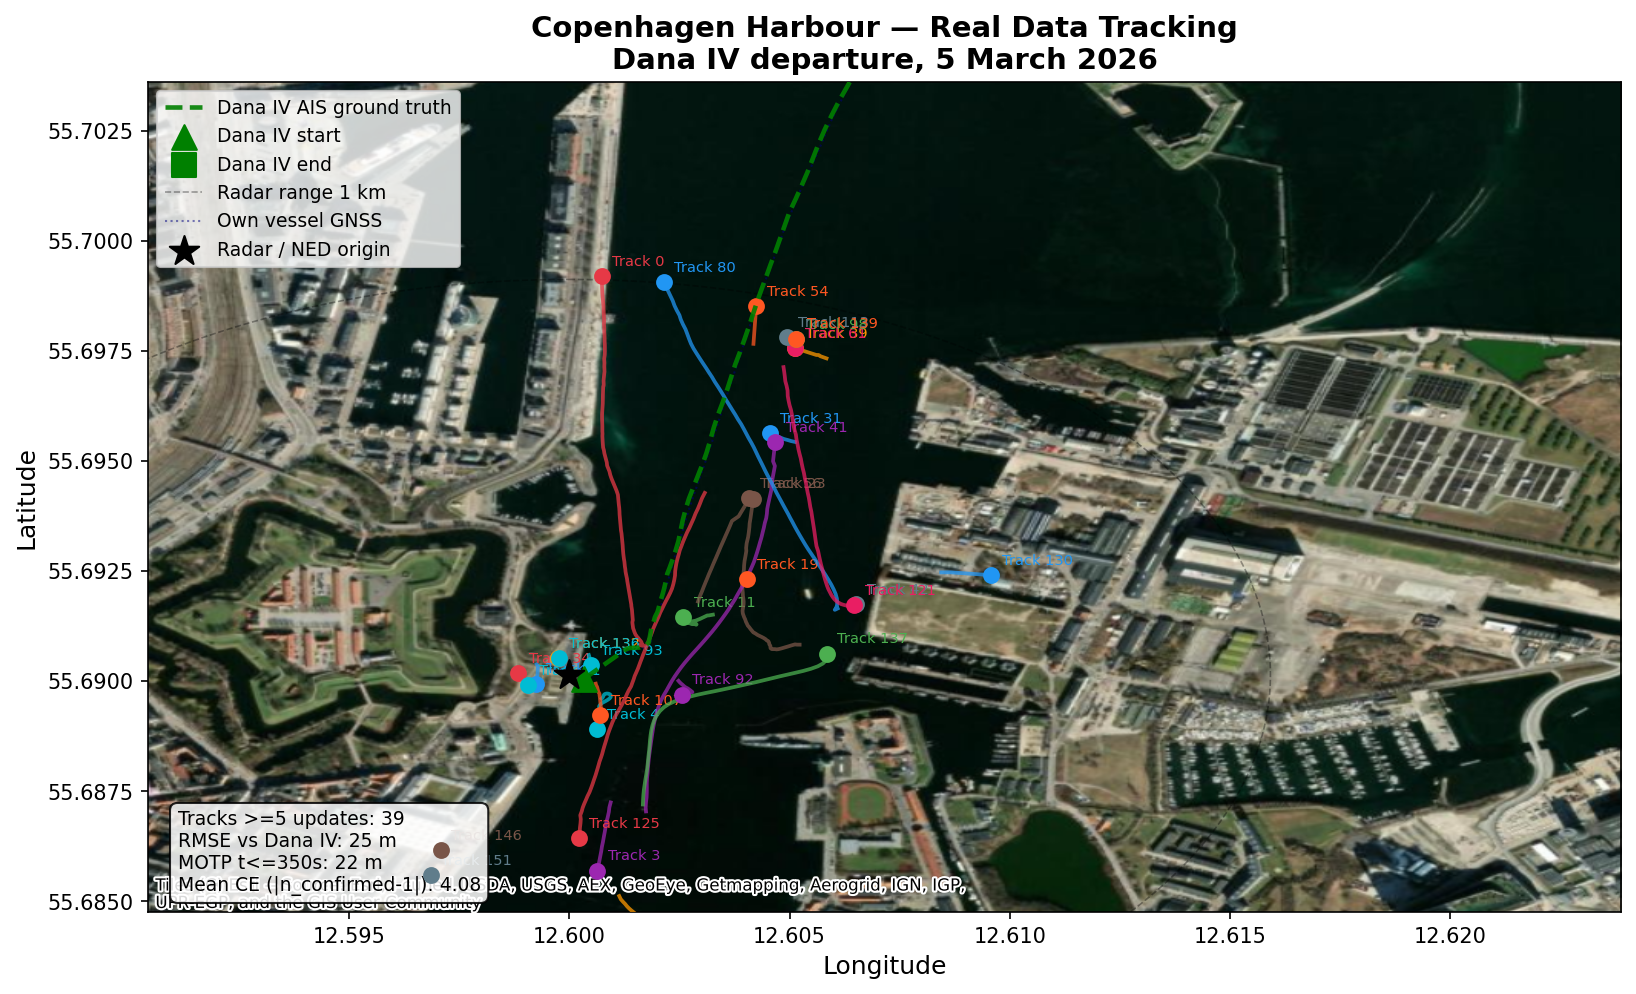
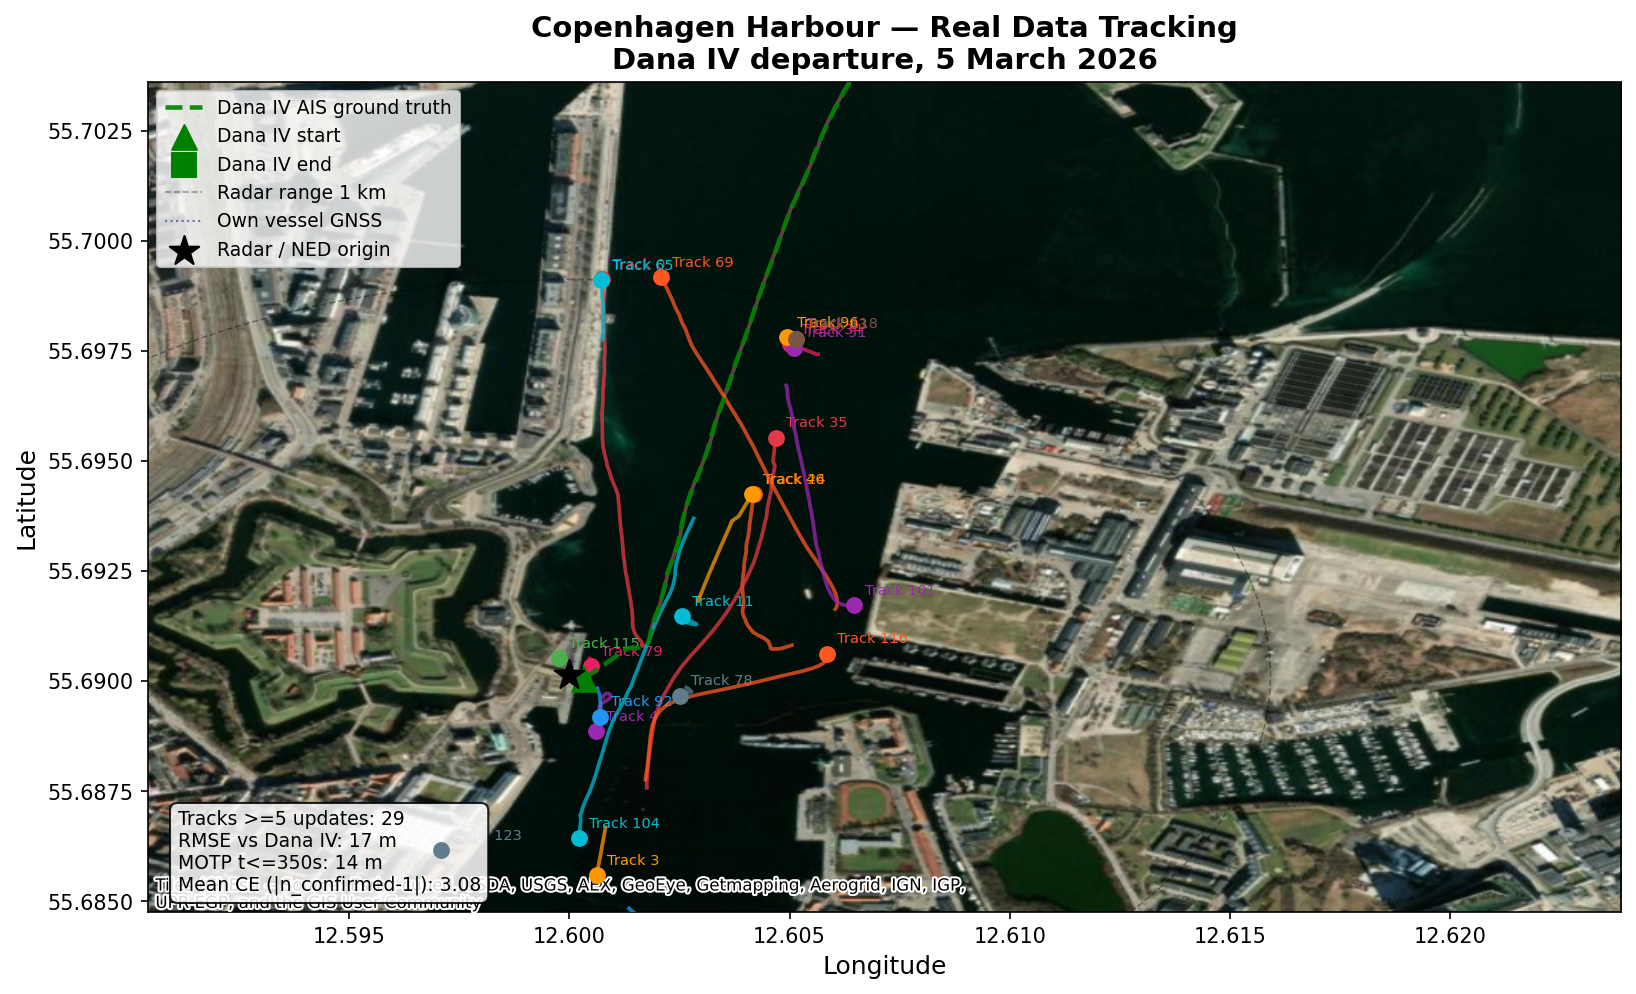
improved scenario d, e and phase 4 results

diff --git a/T7_Track_managment.py b/T7_Track_managment.py
@@ -16,12 +16,12 @@ from T2_CoordinateFrameManager import CoordinateFrameManager
 
 # CONFIRMATION_M = 5 # FOR REAL SCENARIO
 
-CONFIRMATION_M = 3  # 3 for simulation, 5 for real scenario 
-CONFIRMATION_N = 5
+CONFIRMATION_M = 10 # 3 for simulation, 5 for real scenario 
+CONFIRMATION_N = 12
 
-M_DELETE_CONFIRMED = 5
+M_DELETE_CONFIRMED = 6
 M_DELETE_TENTATIVE = 4
-M_DELETE_EKF_TENT  = 5
+M_DELETE_EKF_TENT  = 4
 PRE_GATE_M         = 25.0   # = 25 FOR REAL SCENARIO,50 FOR SIMULATION
 MAX_INIT_SPEED_MS  = 5.0   # = 5  FOR REAL SCENARIO (harbour ~10 kn), 25 FOR SIMUALTION 
 OSPA_GRACE_SCANS   = 10     # scans to skip before checking per-scan OSPA limit
@@ -67,7 +67,7 @@ class TentativeTrack:
         )
 
         P0 = np.zeros((4, 4))
-        P0[0:2, 0:2] = 200 * np.eye(2)
+        P0[0:2, 0:2] = self.sensor_R[:2, :2]
         P0[2, 2] = 2.0 * self.sensor_R[0, 0] / dt**2
         P0[3, 3] = 2.0 * self.sensor_R[1, 1] / dt**2
 
@@ -378,104 +378,104 @@ class TrackManager(MultiTargetTracker):
         return result
 
 
-def assert_end_of_run(
-    tm,
-    target_ids,
-    data,
-    ospa_crossing,
-    ospa_post,
-    motp_distances,
-    motp_matches,
-    identity_swap,
-    ce_series,
-    motp_series,
-):
-    confirmed = tm.confirmed_tracks
-    n_confirmed = len(confirmed)
-    n_gt = len(target_ids)
-    ce_final = abs(n_confirmed - n_gt)
+    def assert_end_of_run(
+        self,
+        target_ids,
+        data,
+        ospa_crossing,
+        ospa_post,
+        motp_distances,
+        motp_matches,
+        identity_swap,
+        ce_series,
+        motp_series,
+    ):
+        confirmed = self.confirmed_tracks
+        n_confirmed = len(confirmed)
+        n_gt = len(target_ids)
+        ce_final = abs(n_confirmed - n_gt)
 
-    mean_ce = float(np.mean(ce_series)) if ce_series else float("nan")
+        mean_ce = float(np.mean(ce_series)) if ce_series else float("nan")
 
-    print(f"\nCE time series (per scan): {[int(v) for v in ce_series]}")
-    print(f"Mean CE (full run): {mean_ce:.3f}")
-    print(f"Final CE: {ce_final}  (confirmed={n_confirmed}, expected={n_gt})")
+        print(f"\nCE time series (per scan): {[int(v) for v in ce_series]}")
+        print(f"Mean CE (full run): {mean_ce:.3f}")
+        print(f"Final CE: {ce_final}  (confirmed={n_confirmed}, expected={n_gt})")
 
-    assert mean_ce <= 1.0, (
-        f"Mean CE {mean_ce:.3f} > 1.0 -- poor cardinality throughout run"
-    )
-
-    assert ce_final <= 1, f"Cardinality error {ce_final} > 1"
-
-    if confirmed:
-        est_final = np.array(
-            [trk.get_state()[:2] for trk in confirmed.values()]
+        assert mean_ce <= 0.5, (
+            f"Mean CE {mean_ce:.3f} > 1.0 -- poor cardinality throughout run"
         )
 
-        gt_final = np.array(
-            [
+        assert ce_final <= 1, f"Cardinality error {ce_final} > 1"
+
+        if confirmed:
+            est_final = np.array(
+                [trk.get_state()[:2] for trk in confirmed.values()]
+            )
+
+            gt_final = np.array(
                 [
-                    data["ground_truth"][str(tid)][-1][1],
-                    data["ground_truth"][str(tid)][-1][2],
+                    [
+                        data["ground_truth"][str(tid)][-1][1],
+                        data["ground_truth"][str(tid)][-1][2],
+                    ]
+                    for tid in target_ids
                 ]
-                for tid in target_ids
-            ]
-        )
+            )
 
-        D = np.linalg.norm(est_final[:, None] - gt_final[None, :], axis=2)
-        r_ind, c_ind = linear_sum_assignment(D)
+            D = np.linalg.norm(est_final[:, None] - gt_final[None, :], axis=2)
+            r_ind, c_ind = linear_sum_assignment(D)
 
-        print("\nFinal position RMSE (confirmed track -> nearest GT target):")
+            print("\nFinal position RMSE (confirmed track -> nearest GT target):")
 
-        for ri, ci in zip(r_ind, c_ind):
-            rmse = D[ri, ci]
+            for ri, ci in zip(r_ind, c_ind):
+                rmse = D[ri, ci]
+                print(
+                    f"  confirmed track -> GT {target_ids[ci]}: "
+                    f"RMSE = {rmse:.2f} m"
+                )
+
+                assert rmse < 20.0, (
+                    f"Final RMSE {rmse:.2f} m > 20 m -- track lost"
+                )
+
+        if ospa_crossing:
+            mean_ospa_crossing = float(np.mean(ospa_crossing))
             print(
-                f"  confirmed track -> GT {target_ids[ci]}: "
-                f"RMSE = {rmse:.2f} m"
+                f"\nMean OSPA during crossing (48-72s): "
+                f"{mean_ospa_crossing:.2f} m"
             )
 
-            assert rmse < 20.0, (
-                f"Final RMSE {rmse:.2f} m > 20 m -- track lost"
+            assert mean_ospa_crossing < 40.0, (
+                f"Mean OSPA crossing {mean_ospa_crossing:.2f} m > 40 m"
             )
 
-    if ospa_crossing:
-        mean_ospa_crossing = float(np.mean(ospa_crossing))
-        print(
-            f"\nMean OSPA during crossing (48-72s): "
-            f"{mean_ospa_crossing:.2f} m"
-        )
+        if ospa_post:
+            mean_ospa_post = float(np.mean(ospa_post))
+            print(f"Mean OSPA after crossing (>72s):   {mean_ospa_post:.2f} m")
 
-        assert mean_ospa_crossing < 40.0, (
-            f"Mean OSPA crossing {mean_ospa_crossing:.2f} m > 40 m"
-        )
+            assert mean_ospa_post < 40.0, (
+                f"Mean OSPA post {mean_ospa_post:.2f} m > 40 m"
+            )
 
-    if ospa_post:
-        mean_ospa_post = float(np.mean(ospa_post))
-        print(f"Mean OSPA after crossing (>72s):   {mean_ospa_post:.2f} m")
+        if motp_series:
+            print(
+                f"\nMOTP time series (per scan, m): "
+                f"{[f'{v:.1f}' for v in motp_series]}"
+            )
 
-        assert mean_ospa_post < 40.0, (
-            f"Mean OSPA post {mean_ospa_post:.2f} m > 40 m"
-        )
+        if motp_matches > 0:
+            motp_scalar = float(np.sum(motp_distances) / motp_matches)
+            print(f"Mean MOTP (full run): {motp_scalar:.2f} m")
 
-    if motp_series:
-        print(
-            f"\nMOTP time series (per scan, m): "
-            f"{[f'{v:.1f}' for v in motp_series]}"
-        )
+            assert motp_scalar < 15.0, (
+                f"MOTP {motp_scalar:.2f} m > 40 m -- localisation too poor"
+            )
 
-    if motp_matches > 0:
-        motp_scalar = float(np.sum(motp_distances) / motp_matches)
-        print(f"Mean MOTP (full run): {motp_scalar:.2f} m")
-
-        assert motp_scalar < 40.0, (
-            f"MOTP {motp_scalar:.2f} m > 40 m -- localisation too poor"
-        )
-
-    if identity_swap > 0:
-        print(f"\nIdentity swaps detected: {identity_swap}")
-        assert False, (
-            f"{identity_swap} identity swaps detected -- check associations"
-        )
+        if identity_swap > 0:
+            print(f"\nIdentity swaps detected: {identity_swap}")
+            assert False, (
+                f"{identity_swap} identity swaps detected -- check associations"
+            )
 
 
 def test_gating_scenario(
@@ -649,33 +649,46 @@ def test_gating_scenario(
     mean_ospa = float(np.mean(ospa_series)) if ospa_series else float("nan")
     mean_motp = float(np.mean(motp_distances)) if motp_distances else float("nan")
 
-    print(f"\nScenario: {json_path}")
-    print(f"CE time series: {[int(v) for v in ce_series]}")
-    print(f"Mean CE: {mean_ce:.3f}")
+    # print(f"\nScenario: {json_path}")
+    # print(f"CE time series: {[int(v) for v in ce_series]}")
+    # print(f"Mean CE: {mean_ce:.3f}")
 
-    print(f"\nOSPA time series: {[f'{v:.1f}' for v in ospa_series]}")
-    print(f"Mean OSPA: {mean_ospa:.2f} m")
+    # print(f"\nOSPA time series: {[f'{v:.1f}' for v in ospa_series]}")
+    # print(f"Mean OSPA: {mean_ospa:.2f} m")
 
-    print(f"\nMOTP time series: {[f'{v:.1f}' for v in motp_series]}")
-    print(f"Mean MOTP: {mean_motp:.2f} m")
+    # print(f"\nMOTP time series: {[f'{v:.1f}' for v in motp_series]}")
+    # print(f"Mean MOTP: {mean_motp:.2f} m")
 
-    assert mean_ce <= 1.0, f"Mean CE {mean_ce:.3f} > 1.0"
-    ospa_steady = ospa_series[OSPA_GRACE_SCANS:]
-    if ospa_steady:
-        mean_ospa_steady = float(np.mean(ospa_steady))
-        print(f"Mean OSPA (after grace period): {mean_ospa_steady:.2f} m")
-        assert mean_ospa_steady < ospa_limit, (
-            f"Mean OSPA {mean_ospa_steady:.2f} m >= {ospa_limit:.1f} m after grace period"
-        )
+    # assert mean_ce <= 1.0, f"Mean CE {mean_ce:.3f} > 1.0"
+    # ospa_steady = ospa_series[OSPA_GRACE_SCANS:]
+    # if ospa_steady:
+    #     mean_ospa_steady = float(np.mean(ospa_steady))
+    #     print(f"Mean OSPA (after grace period): {mean_ospa_steady:.2f} m")
+    #     assert mean_ospa_steady < ospa_limit, (
+    #         f"Mean OSPA {mean_ospa_steady:.2f} m >= {ospa_limit:.1f} m after grace period"
+    #     )
 
-    if identity_swap > 0:
-        assert False, f"{identity_swap} identity swaps detected"
+    # if identity_swap > 0:
+    #     assert False, f"{identity_swap} identity swaps detected"
 
+    tm.assert_end_of_run(
+        target_ids=target_ids,
+        data=data,
+        ospa_crossing=ospa_series[48:73],
+        ospa_post=ospa_series[73:],
+        motp_distances=motp_distances,
+        motp_matches=motp_matches,
+        identity_swap=identity_swap,
+        ce_series=ce_series,
+        motp_series=motp_series,
+    )
+    
 
 if __name__ == "__main__":
 
 
     test_gating_scenario(
-        "harbour_sim_output/scenario_E.json",
+        "harbour_sim_output/scenario_D.json",
         ospa_limit=50.0,
     )
+    